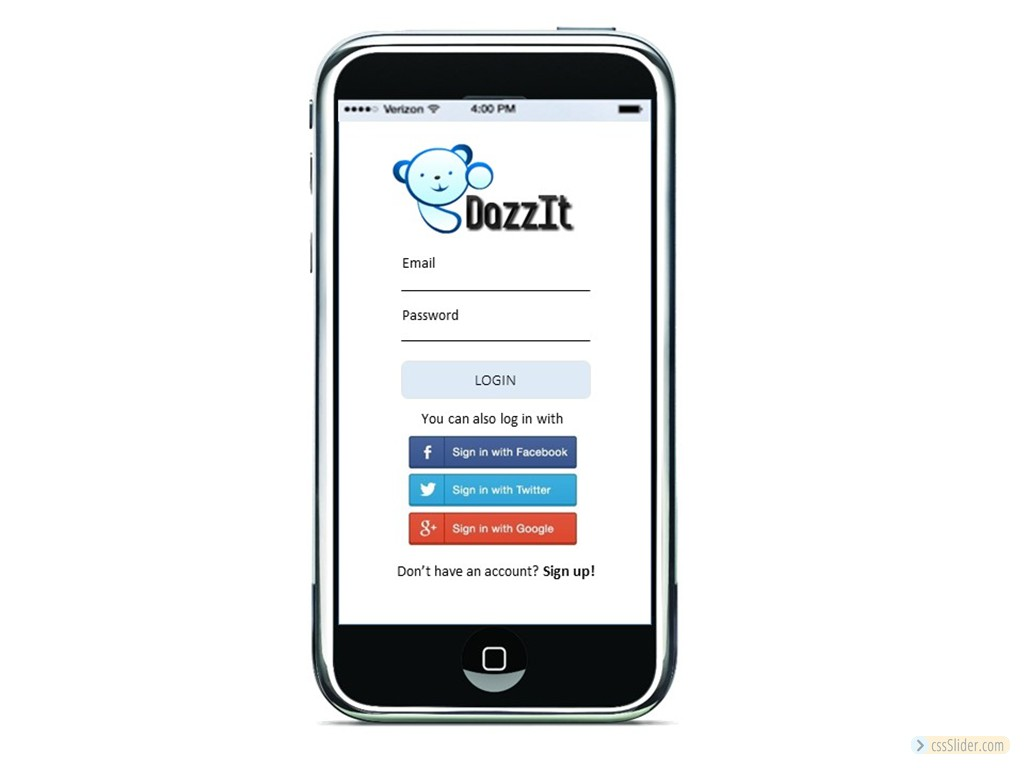
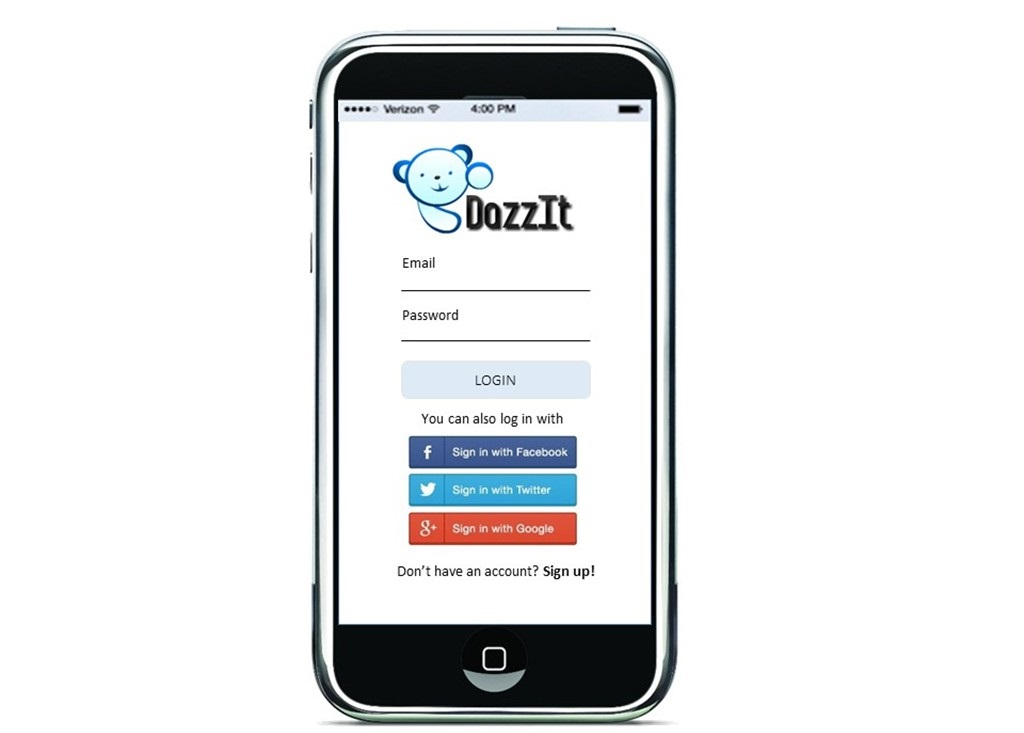
update

Changed region(s): [[0.2812, 0.03, 0.6875, 0.9905], [0.875, 0.9604, 1.0, 0.9905], [0.2812, 0.7503, 0.3125, 0.8104]]

diff --git a/AS1.html b/AS1.html
@@ -31,7 +31,7 @@
 			<li class='num1 img slide'> <img src='AS1_files/csss_images1/slide2.jpg' alt='' title='' /></li>
 			<li class='num2 img slide'> <img src='AS1_files/csss_images1/slide3.jpg' alt='' title='' /></li>
 			<li class='num3 img slide'> <img src='AS1_files/csss_images1/slide4.jpg' alt='' title='' /></li>
-		<!--</ul><div class="cs_engine"><a href="http://cssslider.com">cssslider.com</a> by cssSlider.com v2.1</div>-->
+		</ul><div class="cs_engine"><a href="http://cssslider.com">cssslider.com</a> by cssSlider.com v2.1</div>
 		<div class='cs_description'>
 			<label class='num0'></label>
 			<label class='num1'></label>
@@ -71,8 +71,8 @@
 		<!-- End cssSlider.com -->
 	
 		<ul>
-			<li>the team presenting before us (<a href="">Team 21</a>)</li>
-			<li>the team presenting after us (<a href="http://gohyixuan92.github.io/is429-2016/">Team 1</a>)</li>
+			<h3><li>the team presenting before us (<a href="">Team 21</a>)</li></h3>
+			<h3><li>the team presenting after us (<a href="http://gohyixuan92.github.io/is429-2016/">Team 1</a>)</li></h3>
 		</ul>
 </body>
 </html>
